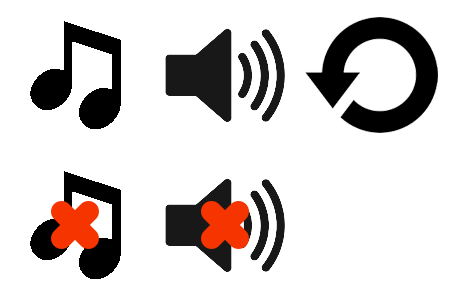
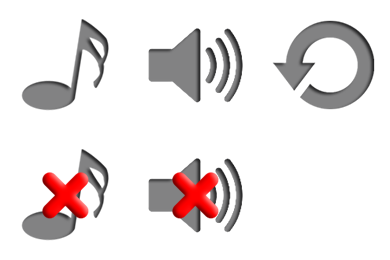
Change in Images 23

diff --git a/client/assets/js/intro.js b/client/assets/js/intro.js
@@ -134,24 +134,26 @@ class Intro extends Phaser.Scene {
 
         let cont = this.add.container ( 905 + (153/2), 50 + (153/2) ).setSize ( 153, 153 ).setInteractive();
 
-        let rcte = this.add.rectangle (0, 0, 153, 153, 0x00ffff, 1 ).setStrokeStyle (2, 0x3a3a3a);
+        //let rcte = this.add.rectangle (0, 0, 153, 153, 0x00ffff, 1 ).setStrokeStyle (2, 0x3a3a3a);
 
-        let imge = this.add.image ( 0, 0, 'setting' );
+        const rcte = this.add.image ( 0, 0, 'buts');
+
+        const imge = this.add.image ( 0, 0, 'setting' );
 
         cont.add ([ rcte, imge ]);
 
         cont.on ('pointerover', function () {
-            this.first.setFillStyle ( 0x99ffff, 1);
+            this.first.setFrame ( 1 )
         });
         cont.on ('pointerout', function () {
-            this.first.setFillStyle ( 0x00ffff, 1);
+            this.first.setFrame ( 0 )
         });
         cont.on ('pointerup', function () {
-            this.first.setFillStyle ( 0x00ffff, 1);
+            this.first.setFrame ( 0 )
+            this.scene.showSettingScreen();
         });
         cont.on ('pointerdown', function () {
-            this.first.setFillStyle ( 0x99ff99, 1);
-            this.scene.showSettingScreen();
+            this.first.setFrame ( 2 )
         });
         
 
@@ -197,6 +199,8 @@ class Intro extends Phaser.Scene {
         
         //..
         this.initMusicBackground();
+
+        this.createSettingScreen ();
 
         this.createRandomElements ();
 
@@ -834,9 +838,9 @@ class Intro extends Phaser.Scene {
 
         let srct = this.add.image ( _gW/2, _gH*0.4, 'gameOver' );
 
-        let txt = this.add.text ( _gW/2, _gH*0.38, 'Game Over', { fontFamily:'Oswald', fontSize: _gH*0.04, color : 'black'} ).setOrigin(0.5);
+        let txt = this.add.text ( _gW/2, _gH*0.39, 'Game Over', { fontFamily:'Oswald', fontSize: _gH*0.04, color : 'black'} ).setOrigin(0.5);
 
-        let txt2 = this.add.text ( _gW/2, _gH*0.425, 'Click Anywhere To Play Again', { fontFamily:'Oswald', fontSize: _gH*0.018, color : '#ff0000'} ).setOrigin(0.5);
+        let txt2 = this.add.text ( _gW/2, _gH*0.44, 'Click Anywhere To Play Again', { fontFamily:'Oswald', fontSize: _gH*0.018, color : '#ff0000'} ).setOrigin(0.5);
 
         gameOverCont.add ([ srct, txt, txt2 ]);
 
@@ -860,96 +864,105 @@ class Intro extends Phaser.Scene {
         this.gameOverScreen.destroy ();
     }
 
-    showSettingScreen () 
+    showSettingScreen ( show = true )
     {
-        var _this = this;
 
         this.playSound ('clicka');
 
-        
+        this.settingScreen.setVisible ( show );
+
+    }
+
+    createSettingScreen () {
+
         this.settingScreen = this.add.container ( 0, 0 );
 
-        let bgRect = this.add.rectangle ( 1080/2, 1920/2, 1080, 1920, 0x0a0a0a, 0.5 ).setInteractive();
+        let bgRect = this.add.rectangle ( 540, 960, 1080, 1920, 0x0a0a0a, 0.3 ).setInteractive();
 
-        bgRect.on('pointerdown', function () {
-            _this.closeSettingScreen ();
+        bgRect.on('pointerdown', () => {
+            this.showSettingScreen ( false );
         });
 
-        let txte = this.add.text ( 1080/2, 580, 'Settings', { color:'white', fontSize: 60, fontFamily:'Oswald' }).setOrigin(0.5);
+        const bg = this.add.image ( 540, 700, 'gameOver' );
 
-        
-        this.settingScreen.add ( [ bgRect, txte ] );
+        const txte = this.add.text ( 540, 630, 'Settings', { color:'#333', fontSize: 46, fontFamily:'Oswald' }).setOrigin(0.5);
+
+        this.settingScreen.add ( [ bgRect, bg, txte ] );
         
         const btns = ['sound', 'music', 'restart'];
 
-        const bs = 30, bsz = (620 - (2*bs))/3;
+        const bs = 30, bsz = 160;
 
-        const bx = (1080 - 620)/2 + (bsz/2), by = 750;
+        const bx = ( 540 - (( 3 * ( bsz + bs) - bs )/2) ) + (bsz/2), by = 760;
         
-        for ( var i = 0; i < btns.length; i++) {
+        for ( let i = 0; i < btns.length; i++) {
 
-            let mnicont = this.add.container ( bx + i * ( bsz+bs), by ).setSize ( bsz, bsz ).setData('id', i).setInteractive();
+            let mnicont = this.add.container ( bx + i * ( bsz+bs), by ).setData('id', i).setSize ( bsz, bsz ).setInteractive();
 
-            let rct = this.add.rectangle ( 0, 0, bsz, bsz, 0xffffff, 1 ).setStrokeStyle ( 1, 0x3a3a3a );
+            let rct = this.add.image (0,0, 'controls_xl');
 
             let imgs = this.add.image ( 0, 0, 'controls', i );
 
-            if ( i == 0 && this.musicOff ) imgs.setFrame ( i + 3 );
-
-            if ( i == 1 && this.soundOff ) imgs.setFrame ( i + 3 );
-            
+    
             mnicont.add ( [ rct, imgs ]);
 
-            mnicont.on('pointerover', function () {
-                this.first.setFillStyle (0xcacaca, 1 );
+            mnicont.on('pointerover', function () {       
+                this.first.setFrame (1);
             });
             mnicont.on('pointerout', function () {
-                this.first.setFillStyle (0xffffff, 1 );
+                this.first.setFrame (0);           
             });
-            mnicont.on('pointerup', function () {
-                this.first.setFillStyle (0xffffff, 1 );
-            });
-            
             mnicont.on('pointerdown', function () {
+                this.first.setFrame (2);
+                
+            });
+            mnicont.on('pointerup', () =>  {
 
-                _this.playSound ('clicka');
 
-                this.first.setFillStyle (0xff9999, 1 );
+                mnicont.first.setFrame (0);
 
-                switch ( this.getData('id')) {
+                this.playSound ('clicka');
+
+                const btnId = mnicont.getData ('id');
+
+                switch ( btnId ) {
 
                     case 0:
-                        _this.musicOff = !_this.musicOff;
-                        this.last.setFrame ( !_this.musicOff  ? this.getData('id') :  this.getData('id') + 3 ) ;
+
+                        this.musicOff = !this.musicOff;
+
+                        mnicont.last.setFrame ( !this.musicOff  ? btnId :  btnId + 3 ) ;
 
                         break;
                     case 1 : 
-                        _this.soundOff = !_this.soundOff;
-                        this.last.setFrame ( !_this.soundOff  ? this.getData('id') :  this.getData('id') + 3 ) ;
+                        this.soundOff = !this.soundOff;
+
+                        mnicont.last.setFrame ( !this.soundOff  ? btnId :  btnId + 3 ) ;
                         
                         break;
                     case 2 :
-                        if ( _this.score > 0 ) {
-                            _this.closeSettingScreen ();
-                            _this.gameReset ();
+                        if ( this.score > 0 ) {
+
+                            this.closeSettingScreen ();
+
+                            this.gameReset ();
                         }
                     default:
+                        //..
                         break;
                 }
 
             });
 
-            this.settingScreen.add ( mnicont );
-        
+
+            this.settingScreen.add ( mnicont ).setVisible (false);;
+            
+          
         }
 
         
     }
 
-    closeSettingScreen () 
-    {
-        this.settingScreen.destroy();
-    }
 
     gameReset ()
     {

diff --git a/client/assets/js/preloader.js b/client/assets/js/preloader.js
@@ -7,29 +7,29 @@ class Preloader extends Phaser.Scene {
     preload ()
     {
         
-        let _gW = this.game.config.width,
-            _gH = this.game.config.height;
 
-        this.add.text ( _gW/2, _gH/2, '', { fontSize: 36, fontFamily:'Oswald', color:'#fff'}).setOrigin(0.5);
+        const mCont = this.add.container ( 540, 800 );
 
-        let txt = this.add.text (_gW/2, 500, 'Loading : 0%', { color:'#333', fontFamily:'Oswald', fontSize:34 }).setOrigin(0.5);
+
+        let txtb = this.add.text ( 0, -60, 'Loading : 0%', { color:'#333', fontFamily:'Oswald', fontSize:34 }).setOrigin(0.5);
 
         //..
-        let brct = this.add.rectangle ( (_gW - 350 )/2, 560, 350, 40 ).setStrokeStyle (3, 0x0a0a0a).setOrigin(0, 0.5);
+        let brct = this.add.rectangle ( 0, 0, 350, 40 ).setStrokeStyle (3, 0x0a0a0a);
+        
         //..
-        let rW = 340, rH = 30;
+        const rW = 340, rH = 30;
 
-        let rct = this.add.rectangle ( (_gW - rW)/2, 560, 5, rH, 0x6a6a6a, 1 ).setOrigin(0, 0.5);
+        let srct = this.add.rectangle ( -170, 0, 5, rH, 0x6a6a6a, 1 ).setOrigin(0, 0.5);
 
-        this.load.on ('complete', function () {
-            this.scene.start('Intro');
-        }, this);
+
+        mCont.add ([ txtb, brct, srct ]);
+
 
         this.load.on ('progress', function (progress) {
 
-            txt.setText ( 'Loading : ' + Math.ceil( progress * 100 ) + '%' );
+            txtb.setText ( 'Loading : ' + Math.ceil( progress * 100 ) + '%' );
 
-            if ( (rW * progress) > 5) rct.setSize ( rW * progress, rH );
+            if ( (rW * progress) > 5) srct.setSize ( rW * progress, rH );
 
         });
 
@@ -50,11 +50,15 @@ class Preloader extends Phaser.Scene {
 
         this.load.spritesheet('smalls', 'client/assets/images/sm.png', { frameWidth: 60, frameHeight: 60 });
 
-        this.load.spritesheet('controls', 'client/assets/images/controls.png', { frameWidth: 150, frameHeight: 150 });
+        this.load.spritesheet('controls', 'client/assets/images/controls.png', { frameWidth: 130, frameHeight: 130 });
 
         this.load.spritesheet('cells', 'client/assets/images/cells.png', { frameWidth: 150, frameHeight: 150 });
-        
 
+        this.load.spritesheet('controls_xl', 'client/assets/images/controls_xl.png', { frameWidth: 160, frameHeight: 160 });
+        
+        this.load.spritesheet('buts', 'client/assets/images/buts.png', { frameWidth: 155, frameHeight: 155 });
+
+        
         this.load.audioSprite('sfx', 'client/assets/sfx/fx_mixdown.json', [
             'client/assets/sfx/sfx.ogg',
             'client/assets/sfx/sfx.mp3'
@@ -65,6 +69,16 @@ class Preloader extends Phaser.Scene {
         this.load.audio ('bgsound2', ['client/assets/sfx/puzzlebg2.ogg', 'client/assets/sfx/puzzlebg2.mp3'] );
 
 
+    }
+
+    create ()
+    {
+
+        this.add.text ( 540, 960, 'Click Anywhere To Proceed', { color: '#333', fontFamily:"Oswald", fontSize: 34 }).setOrigin (0.5);
+
+        this.input.once ('pointerup', () => {
+            this.scene.start ('Intro');
+        })
     }
     
 }
